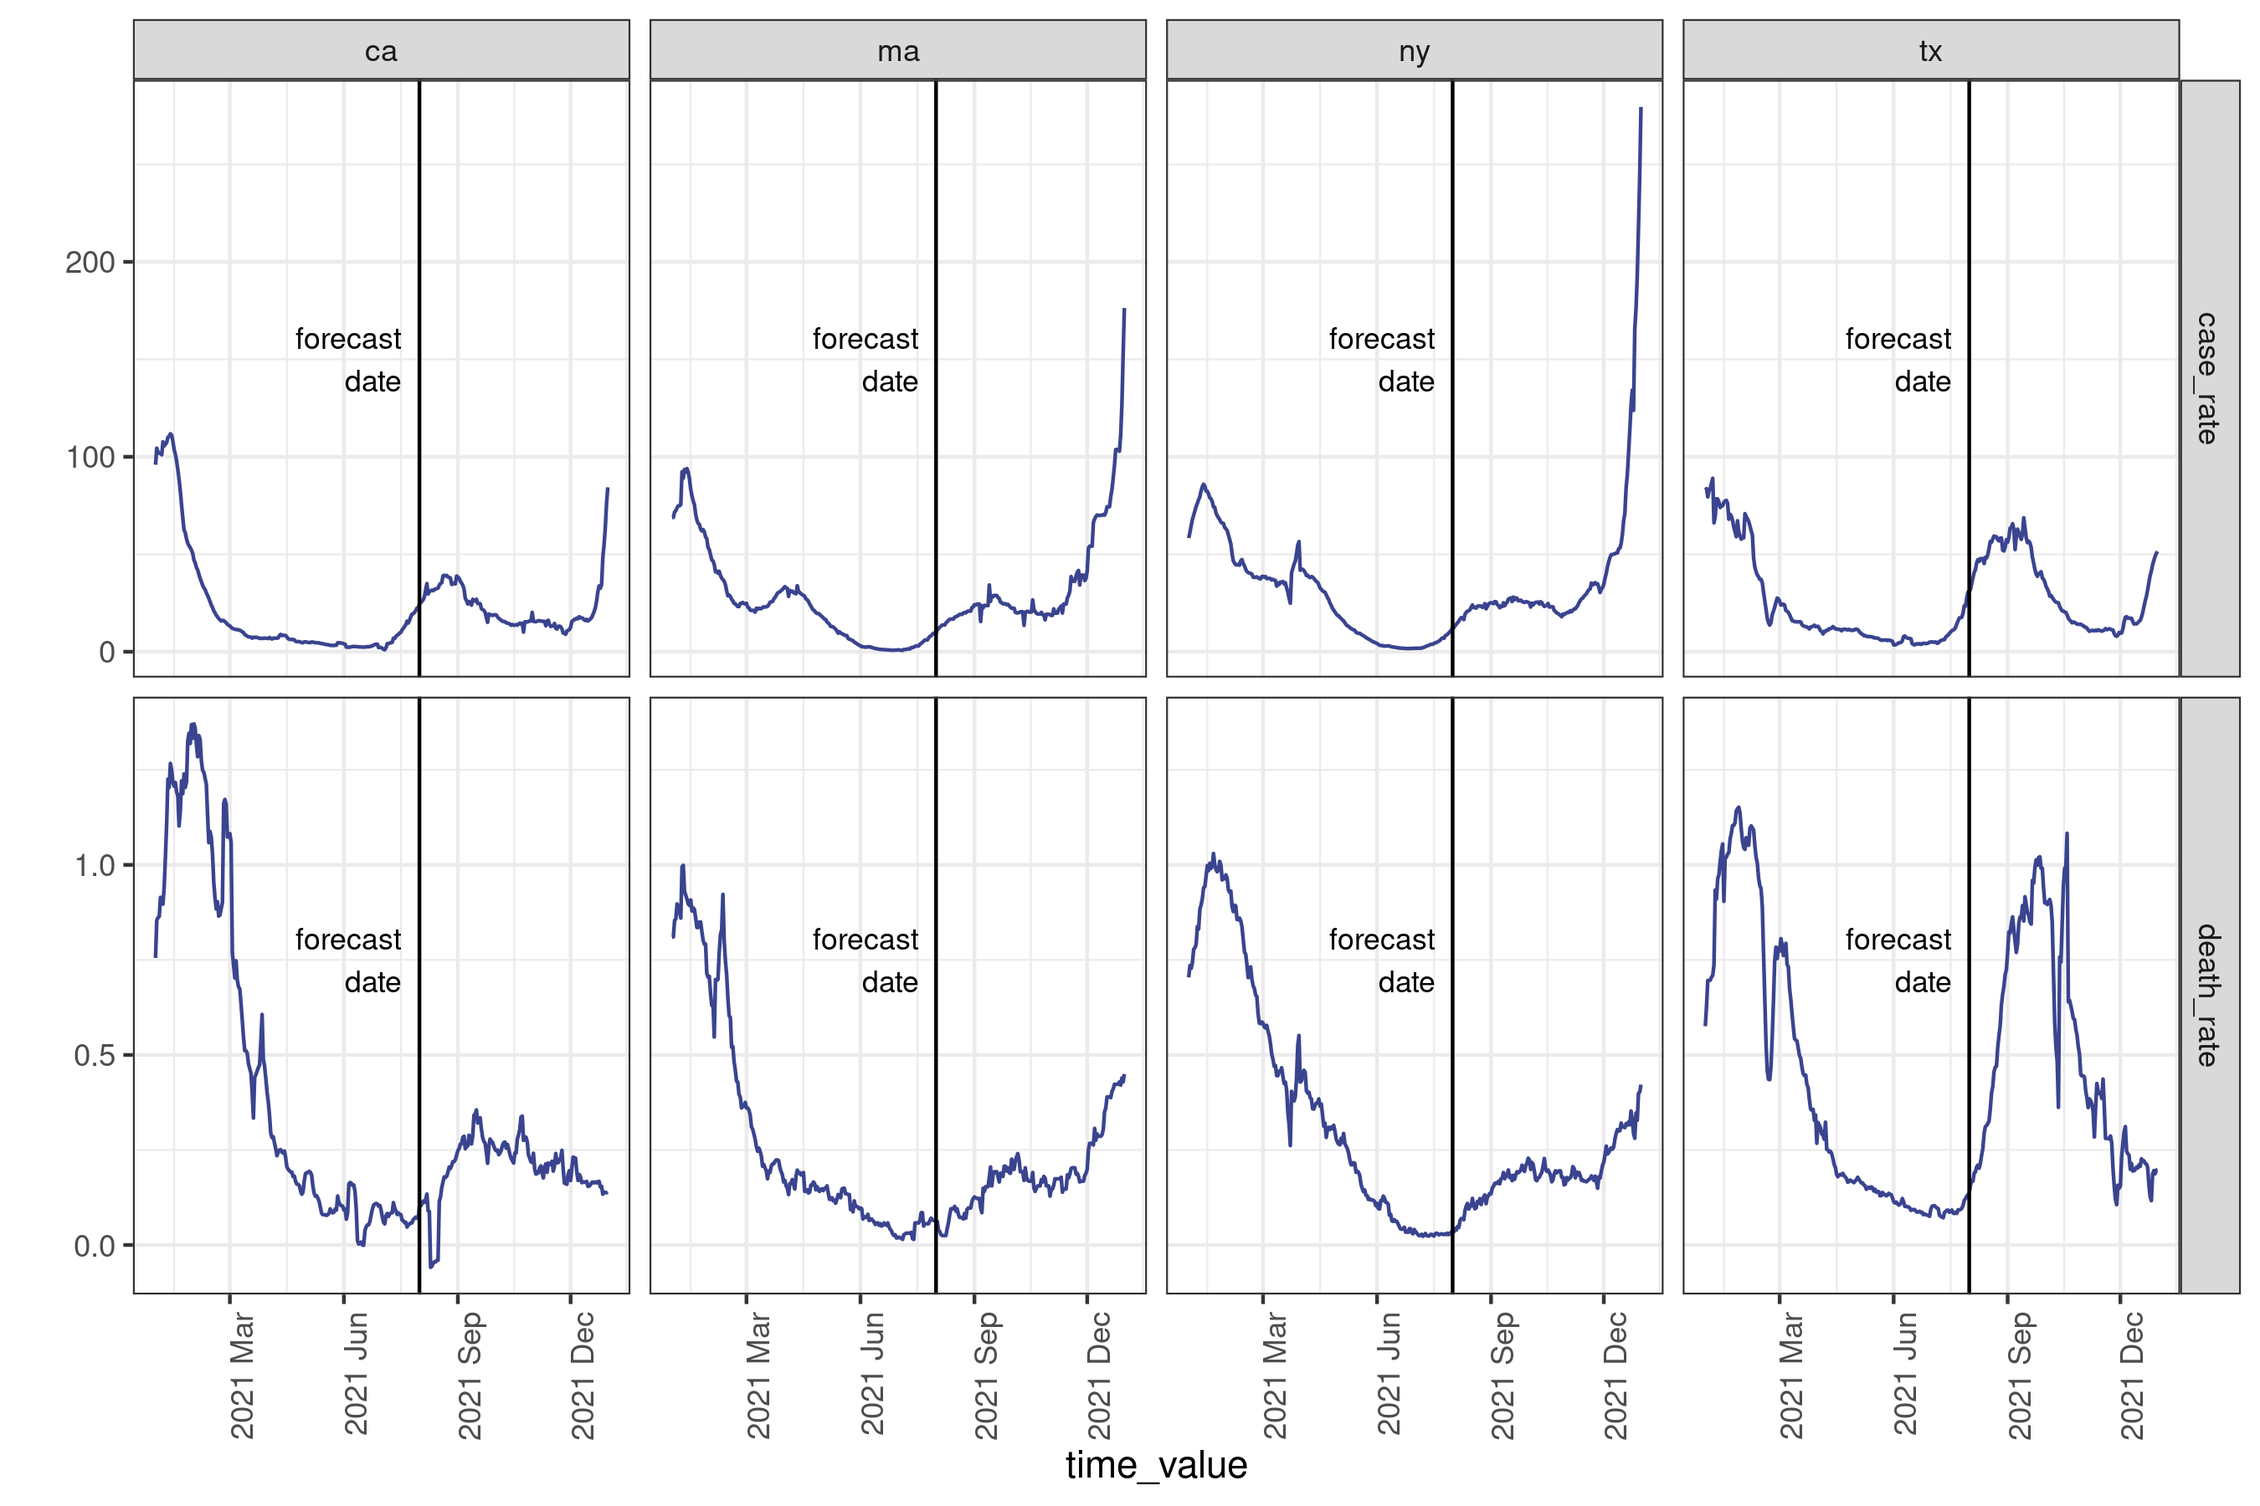
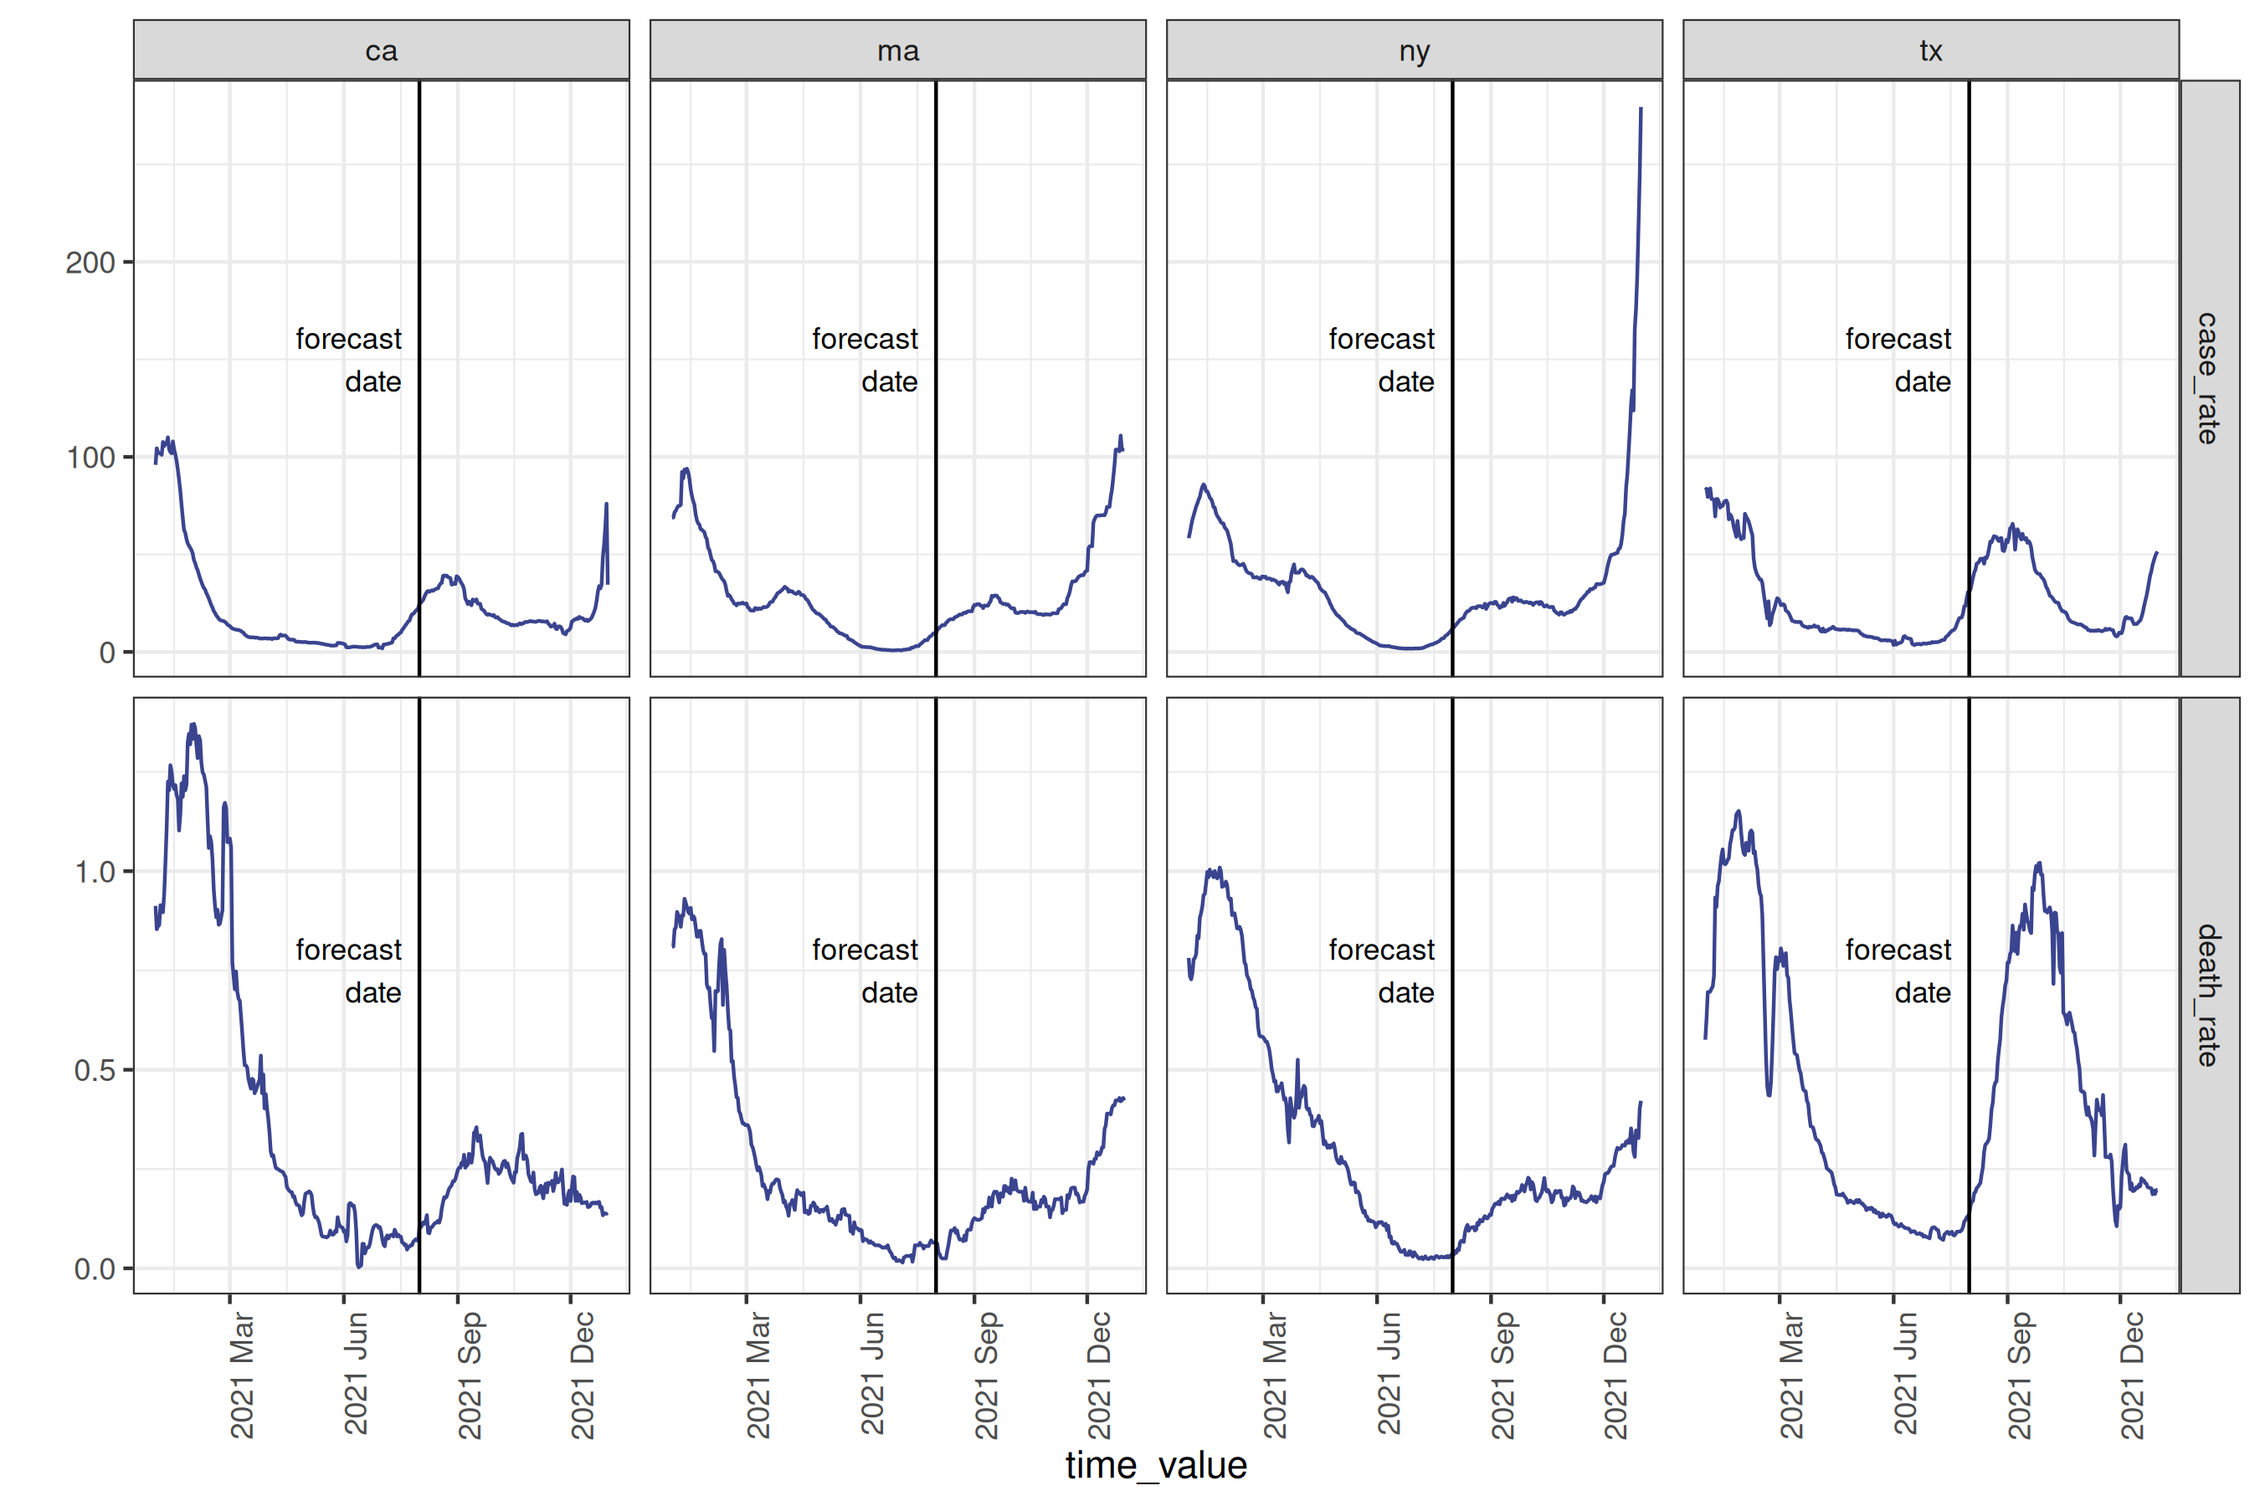
consistent naming, 7dav pull instead of manually

diff --git a/README.md b/README.md
@@ -8,28 +8,28 @@
 [![R-CMD-check](https://github.com/cmu-delphi/epipredict/actions/workflows/R-CMD-check.yaml/badge.svg)](https://github.com/cmu-delphi/epipredict/actions/workflows/R-CMD-check.yaml)
 <!-- badges: end -->
 
-`{epipredict}` is a framework for building transformation and forecasting
-pipelines for epidemiological and other panel time-series datasets. In
-addition to tools for building forecasting pipelines, it contains a
-number of “canned” forecasters meant to run with little modification as
-an easy way to get started forecasting.
+[`{epipredict}`](https://cmu-delphi.github.io/epipredict/) is a
+framework for building transformation and forecasting pipelines for
+epidemiological and other panel time-series datasets. In addition to
+tools for building forecasting pipelines, it contains a number of
+“canned” forecasters meant to run with little modification as an easy
+way to get started forecasting.
 
 It is designed to work well with
-[`{epiprocess}`](https://cmu-delphi.github.io/epiprocess/), a utility for
-time series handling and geographic processing in an
-epidemiological context. Both of the packages are meant to work well
-with the panel data provided by
-[`{epidatr}`](https://cmu-delphi.github.io/epidatr/).
-Pre-compiled example datasets are also availalbe in [`{epidatasets}`](https://cmu-delphi.github.io/epidatasets/).
+[`{epiprocess}`](https://cmu-delphi.github.io/epiprocess/), a utility
+for time series handling and geographic processing in an epidemiological
+context. Both of the packages are meant to work well with the panel data
+provided by [`{epidatr}`](https://cmu-delphi.github.io/epidatr/).
+Pre-compiled example datasets are also available in
+[`{epidatasets}`](https://cmu-delphi.github.io/epidatasets/).
 
-If you are looking for detail beyond the package documentation, see
-our [forecasting book](https://cmu-delphi.github.io/delphi-tooling-book/).
+If you are looking for detail beyond the package documentation, see our
+[forecasting book](https://cmu-delphi.github.io/delphi-tooling-book/).
 
 ## Installation
 
-Unless you’re planning on contributing to package
-development, we suggest using the stable version.
-To install, run:
+Unless you’re planning on contributing to package development, we
+suggest using the stable version. To install, run:
 
 ``` r
 # Stable version
@@ -45,8 +45,25 @@ is at <https://cmu-delphi.github.io/epipredict/dev>.
 
 ## Motivating example
 
-To demonstrate the kind of forecast `{epipredict}` can make, say we want to
-predict COVID-19 deaths per 100k people for each state on 2021-08-01.
+To demonstrate using
+[`{epipredict}`](https://cmu-delphi.github.io/epipredict/) for
+forecasting, say we want to predict COVID-19 deaths per 100k people for
+each of a subset of states
+
+``` r
+used_locations <- c("ca", "ma", "ny", "tx")
+```
+
+on
+
+``` r
+forecast_date <- as.Date("2021-08-01")
+```
+
+<details>
+<summary>
+Required packages
+</summary>
 
 ``` r
 library(epipredict)
@@ -54,28 +71,43 @@ library(epidatr)
 library(epiprocess)
 library(dplyr)
 library(ggplot2)
-
-forecast_date <- as.Date("2021-08-01")
 ```
 
-Below the fold, we construct this dataset as an `epiprocess::epi_df`
-from [Johns Hopkins Center for Systems Science and Engineering deaths data](https://cmu-delphi.github.io/delphi-epidata/api/covidcast-signals/jhu-csse.html).
+</details>
+
+``` r
+cases_deaths <- covid_case_death_rates |>
+  filter(geo_value %in% used_locations,
+         time_value <= "2021-12-31")
+attr(cases_deaths, "metadata")$as_of <- as.Date("2022-01-01")
+```
+
+`covid_case_death_rates` is a subset of [Johns Hopkins Center for
+Systems Science and Engineering deaths
+data](https://cmu-delphi.github.io/delphi-epidata/api/covidcast-signals/jhu-csse.html)
+stored in [`{epidatasets}`](https://cmu-delphi.github.io/epidatasets/).
+Below the fold, we clean this dataset and demonstrate pulling it from
+the epidata API.
 
 <details>
 <summary>
 Creating the dataset using `{epidatr}` and `{epiprocess}`
 </summary>
 
-This section is intended to demonstrate some of the ubiquitous cleaning operations needed
-to be able to forecast.
-The dataset prepared here is also included ready-to-go in `{epipredict}` as `covid_case_death_rates`.
+This section is intended to demonstrate some of the ubiquitous cleaning
+operations needed to be able to forecast. The dataset prepared here is
+also included ready-to-go in
+[`{epipredict}`](https://cmu-delphi.github.io/epipredict/) as
+`covid_case_death_rates`.
 
-First we pull both `jhu-csse` cases and deaths data from the [Delphi API](https://cmu-delphi.github.io/delphi-epidata/api/covidcast.html) using the [`{epidatr}`](https://cmu-delphi.github.io/epidatr/) package:
+First we pull both `jhu-csse` cases and deaths data from the [Delphi
+API](https://cmu-delphi.github.io/delphi-epidata/api/covidcast.html)
+using the [`{epidatr}`](https://cmu-delphi.github.io/epidatr/) package:
 
 ``` r
 cases <- pub_covidcast(
   source = "jhu-csse",
-  signals = "confirmed_incidence_prop",
+  signals = "confirmed_7dav_incidence_prop",
   time_type = "day",
   geo_type = "state",
   time_values = epirange(20200601, 20211231),
@@ -85,24 +117,23 @@ cases <- pub_covidcast(
 
 deaths <- pub_covidcast(
   source = "jhu-csse",
-  signals = "deaths_incidence_prop",
+  signals = "deaths_7dav_incidence_prop",
   time_type = "day",
   geo_type = "state",
   time_values = epirange(20200601, 20211231),
   geo_values = "*"
 ) |>
   select(geo_value, time_value, death_rate = value)
+cases_deaths <-
+  full_join(cases, deaths, by = c("time_value", "geo_value")) |>
+  filter(geo_value %in% used_locations) |>
+  as_epi_df(as_of = as.Date("2022-01-01"))
 ```
 
 Since visualizing the results on every geography is somewhat
 overwhelming, we’ll only train on a subset of locations.
 
 ``` r
-used_locations <- c("ca", "ma", "ny", "tx")
-cases_deaths <-
-  full_join(cases, deaths, by = c("time_value", "geo_value")) |>
-  filter(geo_value %in% used_locations) |>
-  as_epi_df(as_of = as.Date("2022-01-01"))
 # plotting the data as it was downloaded
 cases_deaths |>
   autoplot(
@@ -121,27 +152,10 @@ cases_deaths |>
 
 <img src="man/figures/README-date-1.png" width="90%" style="display: block; margin: auto;" />
 
-As with the typical dataset, we will need to do some cleaning to make it actually usable; we’ll use some utilities from
+As with the typical dataset, we will need to do some cleaning to make it
+actually usable; we’ll use some utilities from
 [`{epiprocess}`](https://cmu-delphi.github.io/epiprocess/) for this.
-
-First, to reduce the noise from daily reporting, we will compute a
-7 day average over a trailing window[^1]:
-
-``` r
-cases_deaths <-
-  cases_deaths |>
-  group_by(geo_value) |>
-  epi_slide(
-    cases_7dav = mean(case_rate, na.rm = TRUE),
-    death_rate_7dav = mean(death_rate, na.rm = TRUE),
-    .window_size = 7
-  ) |>
-  ungroup() |>
-  mutate(case_rate = NULL, death_rate = NULL) |>
-  rename(case_rate = cases_7dav, death_rate = death_rate_7dav)
-```
-
-Then we'll trim outliers, especially negative values:
+Specifically we’ll trim outliers, especially negative values:
 
 ``` r
 cases_deaths <-
@@ -168,8 +182,8 @@ cases_deaths <-
 
 </details>
 
-After downloading and cleaning the cases and deaths data, we can plot
-a subset of the states, marking the desired forecast date:
+After downloading and cleaning the cases and deaths data, we can plot a
+subset of the states, marking the desired forecast date:
 
 <details>
 <summary>
@@ -177,7 +191,6 @@ Plot
 </summary>
 
 ``` r
-used_locations <- c("ca", "ma", "ny", "tx")
 forecast_date_label <-
   tibble(
     geo_value = rep(used_locations, 2),
@@ -185,8 +198,8 @@ forecast_date_label <-
     dates = rep(forecast_date - 7 * 2, 2 * length(used_locations)),
     heights = c(rep(150, 4), rep(0.75, 4))
   )
-
-covid_case_death_rates |>
+processed_data_plot <-
+  cases_deaths |>
   filter(geo_value %in% used_locations) |>
   autoplot(
     case_rate,
@@ -214,11 +227,11 @@ covid_case_death_rates |>
 
 To make a forecast, we will use a simple “canned” auto-regressive
 forecaster to predict the death rate four weeks into the future using
-lagged[^2] deaths and cases.
+lagged[^1] deaths and cases.
 
 ``` r
 four_week_ahead <- arx_forecaster(
-  covid_case_death_rates |> filter(time_value <= forecast_date),
+  cases_deaths |> filter(time_value <= forecast_date),
   outcome = "death_rate",
   predictors = c("case_rate", "death_rate"),
   args_list = arx_args_list(
@@ -229,31 +242,33 @@ four_week_ahead <- arx_forecaster(
 )
 four_week_ahead
 #> ══ A basic forecaster of type ARX Forecaster ════════════════════════════════
-#>
-#> This forecaster was fit on 2025-02-10 12:09:58.
-#>
+#> 
+#> This forecaster was fit on 2025-03-03 14:43:07.
+#> 
 #> Training data was an <epi_df> with:
 #> • Geography: state,
 #> • Time type: day,
 #> • Using data up-to-date as of: 2022-01-01.
 #> • With the last data available on 2021-08-01
-#>
+#> 
 #> ── Predictions ──────────────────────────────────────────────────────────────
-#>
+#> 
 #> A total of 4 predictions are available for
 #> • 4 unique geographic regions,
 #> • At forecast date: 2021-08-01,
 #> • For target date: 2021-08-29,
-#>
+#> 
 ```
 
-In our model setup, we are defining as our predictors case rate lagged 0-3 days, one week, and two weeks, and death rate lagged 0-2 weeks.
-The result `four_week_ahead` is both a fitted
-model object which could be used any time in the future to create
-different forecasts, and a set of predicted values (and
-prediction intervals) for each location 28 days after the forecast date.
+In our model setup, we are defining as our predictors case rate lagged
+0-3 days, one week, and two weeks, and death rate lagged 0-2 weeks. The
+result `four_week_ahead` is both a fitted model object which could be
+used any time in the future to create different forecasts, and a set of
+predicted values (and prediction intervals) for each location 28 days
+after the forecast date.
 
-Plotting the prediction intervals on the true values for our location subset[^3]:
+Plotting the prediction intervals on the true values for our location
+subset[^2]:
 
 <details>
 <summary>
@@ -283,7 +298,7 @@ forecast_plot <-
 
 <img src="man/figures/README-show-single-forecast-1.png" width="90%" style="display: block; margin: auto;" />
 
-And as a tibble of quantile-value pairs:
+And as a tibble of quantile level-value pairs:
 
 ``` r
 four_week_ahead$predictions |>
@@ -291,22 +306,21 @@ four_week_ahead$predictions |>
   pivot_quantiles_longer(.pred_distn)
 #> # A tibble: 20 × 5
 #>   geo_value values quantile_levels forecast_date target_date
-#>   <chr>      <dbl>           <dbl> <date>        <date>
-#> 1 ca        0.199             0.1  2021-08-01    2021-08-29
-#> 2 ca        0.285             0.25 2021-08-01    2021-08-29
-#> 3 ca        0.345             0.5  2021-08-01    2021-08-29
-#> 4 ca        0.405             0.75 2021-08-01    2021-08-29
-#> 5 ca        0.491             0.9  2021-08-01    2021-08-29
-#> 6 ma        0.0285            0.1  2021-08-01    2021-08-29
+#>   <chr>      <dbl>           <dbl> <date>        <date>     
+#> 1 ca        0.0425            0.1  2021-08-01    2021-08-29 
+#> 2 ca        0.0803            0.25 2021-08-01    2021-08-29 
+#> 3 ca        0.115             0.5  2021-08-01    2021-08-29 
+#> 4 ca        0.150             0.75 2021-08-01    2021-08-29 
+#> 5 ca        0.187             0.9  2021-08-01    2021-08-29 
+#> 6 ma        0                 0.1  2021-08-01    2021-08-29 
 #> # ℹ 14 more rows
 ```
 
-The orange dot gives the predicted median, and the blue intervals give
-the 25-75%, the 10-90%, and 2.5-97.5% inter-quantile ranges[^4]. For
-this particular day and these locations, the forecasts are relatively
-accurate, with the true data being at worst within the 10-90% interval.
-
-A couple of things to note:
+The yellow dot gives the median prediction, while the blue intervals
+give the 25-75%, the 10-90%, and 2.5-97.5% inter-quantile ranges[^3].
+For this particular day and these locations, the forecasts are
+relatively accurate, with the true data being at least within the 10-90%
+interval. A couple of things to note:
 
 1.  Our methods are primarily direct forecasters; this means we don’t
     need to predict 1, 2,…, 27 days ahead to then predict 28 days ahead
@@ -322,21 +336,19 @@ If you encounter a bug or have a feature request, feel free to file an
 [issue on our GitHub
 page](https://github.com/cmu-delphi/epipredict/issues). For other
 questions, feel free to reach out to the authors, either via this
-[contact form](https://docs.google.com/forms/d/e/1FAIpQLScqgT1fKZr5VWBfsaSp-DNaN03aV6EoZU4YljIzHJ1Wl_zmtg/viewform),
+[contact
+form](https://docs.google.com/forms/d/e/1FAIpQLScqgT1fKZr5VWBfsaSp-DNaN03aV6EoZU4YljIzHJ1Wl_zmtg/viewform),
 email, or the InsightNet Slack.
 
-[^1]: This makes it so that any given day of the processed time-series
-    only depends on the previous week, which means that we avoid leaking
-    future values when making a forecast.
-
-[^2]: lagged by 3 in this context meaning using the value from 3 days
+[^1]: lagged by 3 in this context meaning using the value from 3 days
     ago.
 
-[^3]: Alternatively, you could call `autoplot(four_week_ahead)` to get
-    the full collection of forecasts. This is too busy for the space we
-    have for plotting here.
+[^2]: Alternatively, you could call
+    `autoplot(four_week_ahead, plot_data = cases_deaths)` to get the
+    full collection of forecasts. This is too busy for the space we have
+    for plotting here.
 
-[^4]: Note that these are not the same quantiles that we fit when
+[^3]: Note that these are not the same quantiles that we fit when
     creating `four_week_ahead`. They are extrapolated from those
     quantiles using `extrapolate_quantiles()` (which assumes an
     exponential decay in the tails).
